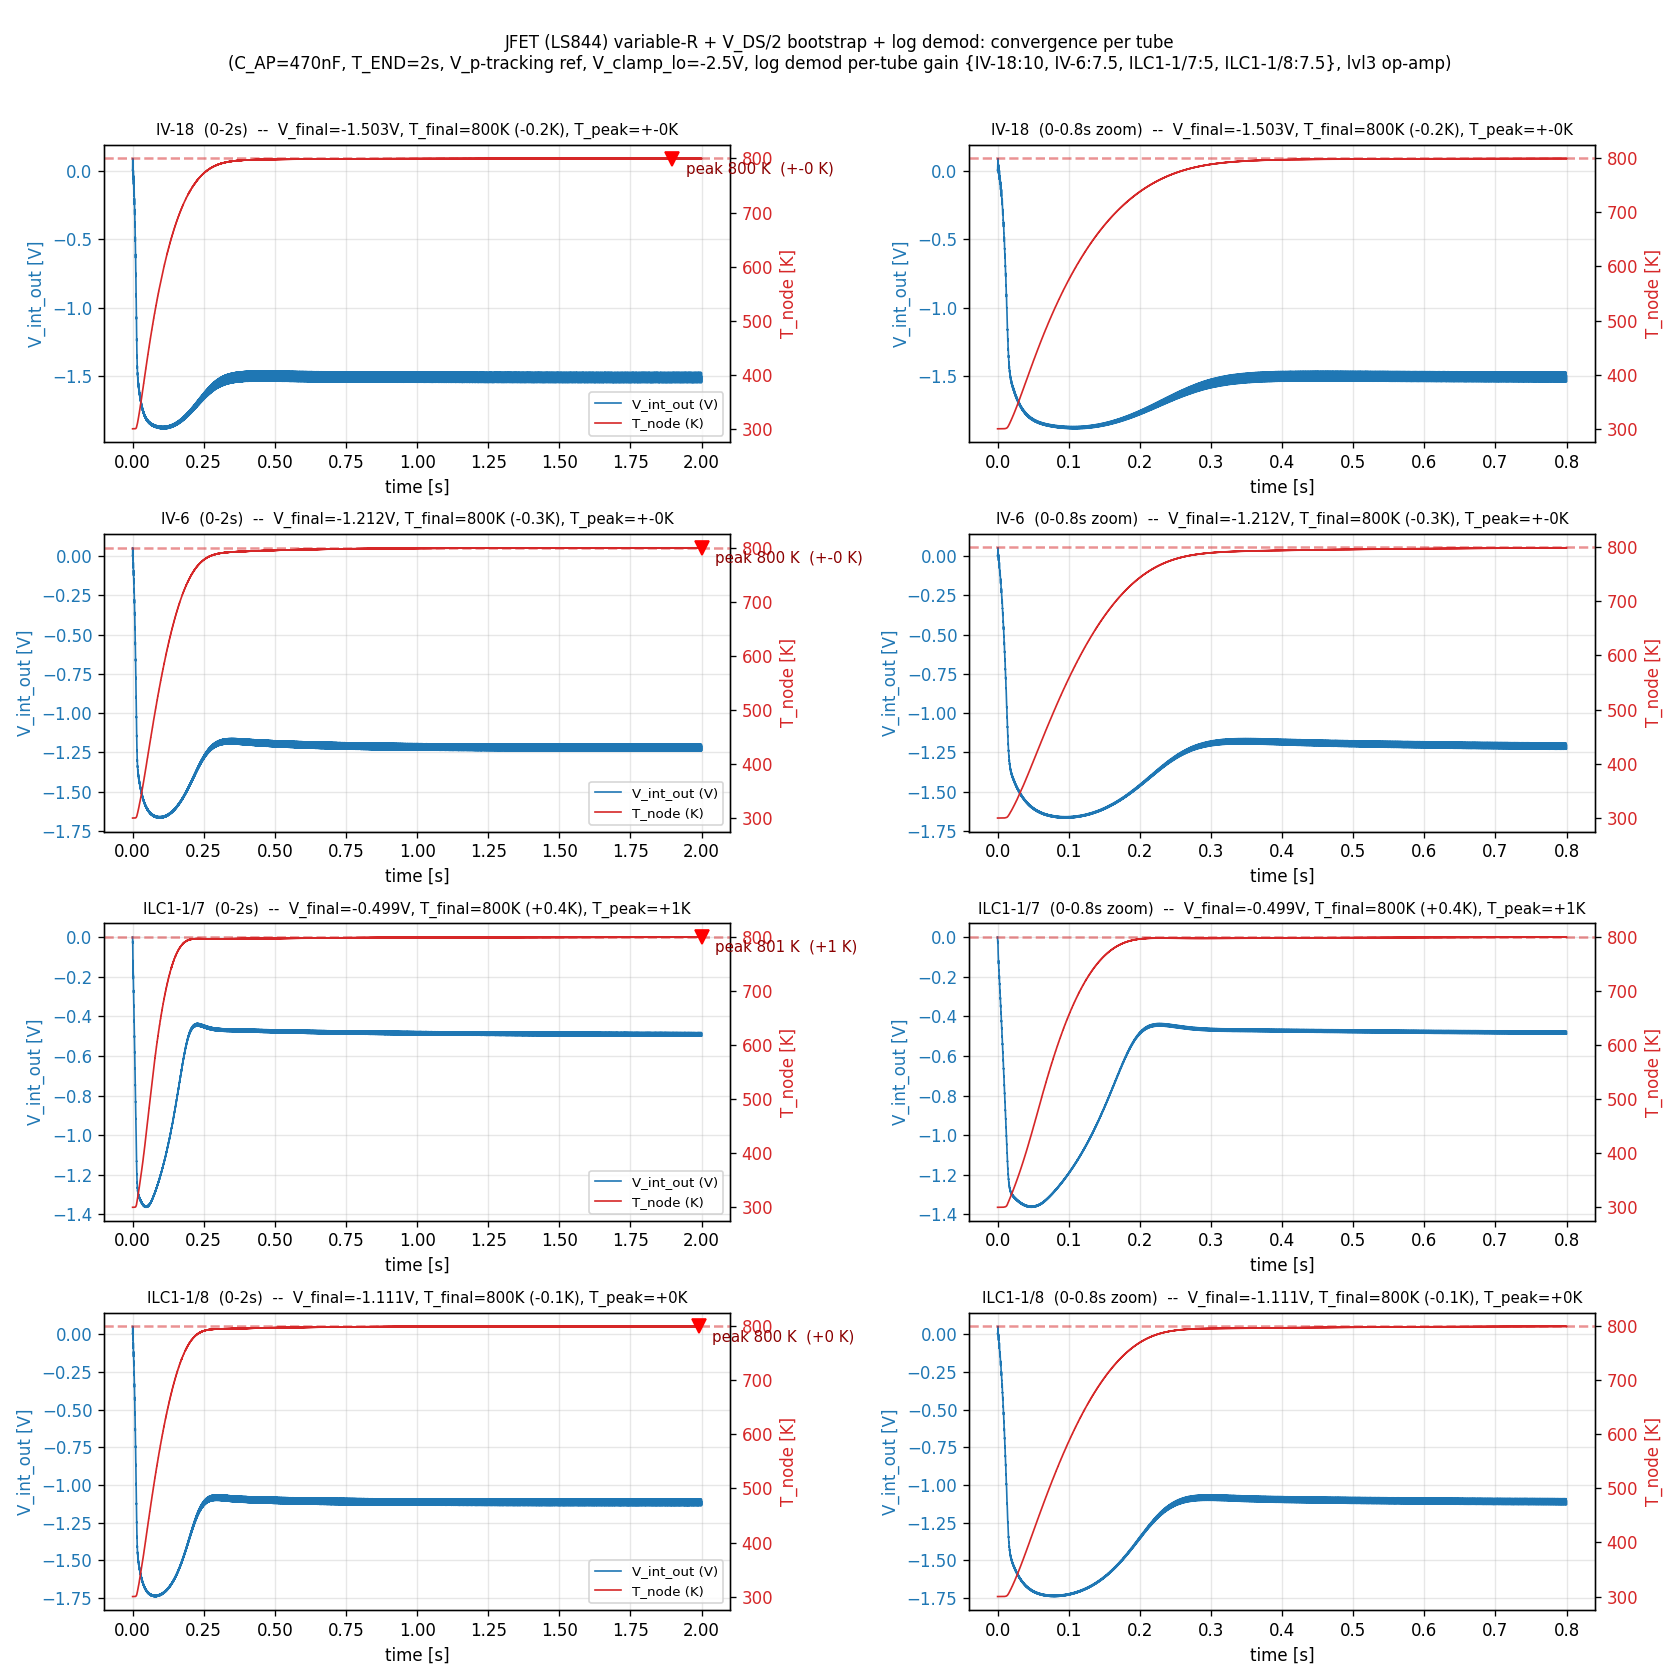
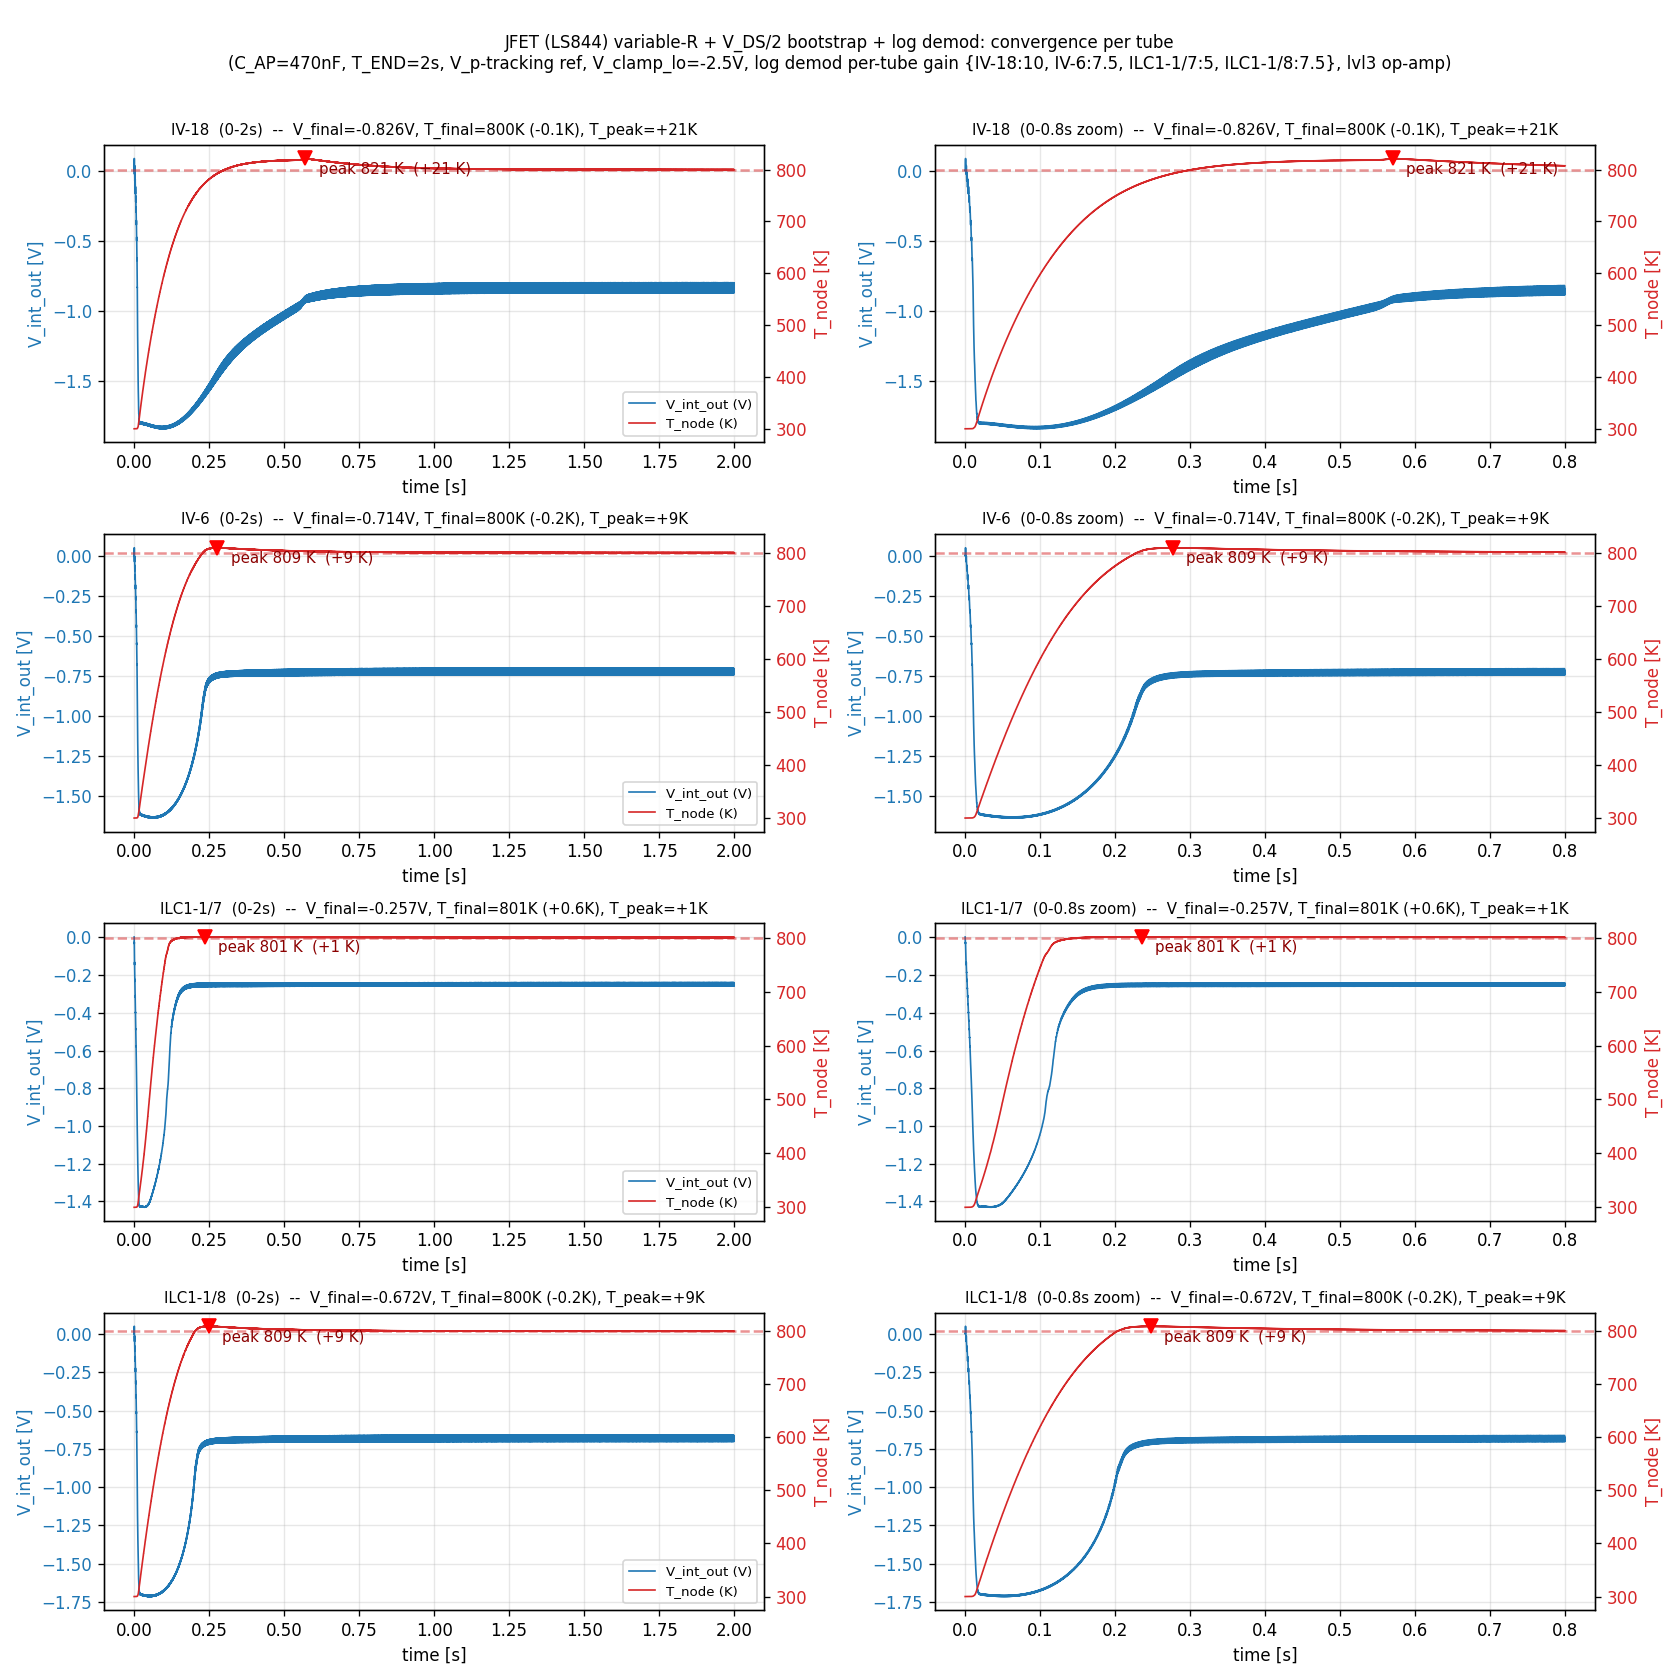
Replace LS844 variable-R with H11F1 photo-FET + V→I LED drive
Architecture surgery to eliminate the JFET-arch's V_p corner failures.
The LS844 JFET pair's V_p spec ranges 1-3.5 V (over 3:1) caused two
corner failures on the JFET branch's V_p sweep: cold-start overshoot
of +18 to +29 K at V_p=-1 V, and a full IV-18 stall at T=781 K (-19 K)
at V_p=-3.5 V. The H11F replaces V_p variation with R(I_LED) variation,
which the loop absorbs gracefully via integrator winding.

Changes:
  - Variable-R: single H11F1 photo-FET (one device, no matched-pair)
  - V→I converter: TLV9154 op-amp + 2N3904 BJT + R_sense_led=100 Ω +
    V_bias_led=1.0 V (places I_LED ≈ 10 mA at V_int_out=0)
  - Removed: J_var, J_ref, R_d_ref, R_src_ref (LS844 + V_p ref)
  - Removed: XU_sum subtractor + V_DS/2 bootstrap (will re-add as
    AC injection into V→I +IN if H2 becomes a problem)
  - Added: spice_models/H11F1.spice.txt (validated against Fig 1-3)
  - X_H11F instance takes PARAMS: H11F_BETA_SCALE for part variation

Results on all 4 tubes (per sweep_h11f_part_variation.py):
  T_end is within 0.8 K of target across ALL parts (±30 % R spread):
    IV-18:    T_end = 799.76-799.76 K (target 800)
    IV-6:     T_end = 799.76-799.78 K
    ILC1-1/7: T_end = 800.69-800.84 K
    ILC1-1/8: T_end = 799.84-799.85 K
  → No corner-case stalls, no T_end errors. Bulletproof across LS844
  V_p-equivalent spec spread.

Open issues for follow-up:
  - H2 returns to 4-18 % (no bootstrap yet — phase 1 deliberately
    skipped it). Bootstrap restoration needed for harmonic purity.
[…]

diff --git a/ngspice_examples/test_closed_loop.py b/ngspice_examples/test_closed_loop.py
@@ -437,6 +437,19 @@ def make_netlist(data_path: Path,
     # clamps.
     r_d_ref_kohm   = mc.get("r_d_ref_kohm", 10.0)
     r_src_ref_ohm  = mc.get("r_src_ref_ohm", 100.0)
+    # H11F V→I converter sizing.
+    # V_emitter = V_int_out + V_bias (via the op-amp summer).
+    # I_LED = V_emitter / R_sense_led.
+    # Default V_bias=+1.0 V, R_sense_led=100 Ω → V_int=0 gives I_LED=10 mA
+    # which puts the H11F1 near its R_typ=200 Ω OP point. Adjust V_bias if
+    # the bridge wants a different R_DS_OP.
+    v_bias_led    = mc.get("v_bias_led",    1.0)
+    r_sense_led   = mc.get("r_sense_led",   100.0)
+    i_led_bias_ma = v_bias_led / r_sense_led * 1e3  # info-only for the netlist comment
+    # H11F part-variation simulant: scales the internal NJF's BETA, which
+    # equivalently scales R(I_LED) up/down. Per datasheet Figure 5, ±30 %
+    # observed → BETA_SCALE in [0.77, 1.43].
+    h11f_beta_scale = mc.get("h11f_beta_scale", 1.0)
     # LS844 SPICE-model parameters. Default to mid-of-spec V_p, derived
     # I_DSS giving a typical β. mc overrides let us sweep across the
     # 1.0-3.5 V V_p spec range and across I_DSS variation.
@@ -973,30 +986,9 @@ R_buf2_fb2   n_buf_ap_fb 0               1k
             f"V_boost_en vboost_en 0 PWL(0 1 {max(t_boost-1e-6,0):.6e} 1 {t_boost:.6e} 0 1 0)\n"
             f"B_boost 0 T_node I = {p_boost:.6e} * (V(vboost_en) > 0.5)\n"
         )
-    # V_offset reference: self-biased JFET (LS844 second die) that tracks
-    # V_p of the matched J_var on the same die. Produces V_source_ref =
-    # I_ref·R_src_ref ≈ |V_p|/2 (positive). XU_sum subtracts this from
-    # V_int_out: V_ctl = V_int_out - V_source_ref. So V_GS_var at
-    # V_int_out=0 is -V_source_ref ≈ V_p/2 (negative, safely below
-    # the gate-channel diode threshold) and matched to V_p across builds.
-    if force_v_offset_v is not None:
-        # Diagnostic override: replace Q_ref with a fixed source on
-        # n_ref_src equal to -force_v_offset_v, preserving the
-        # V_ctl = V_int_out + force_v_offset_v back-compat convention.
-        v_offset_block = (
-            f"* Fixed V_offset (diagnostic / sweep override): V_ctl_OP = V_int_out + {float(force_v_offset_v):.4g}\n"
-            f"V_offset_ref n_ref_src 0 {-float(force_v_offset_v):.4g}"
-        )
-    else:
-        v_offset_block = (
-            f"* V_p-tracking V_offset reference: LS844 die 2 wired self-biased.\n"
-            f"* I_ref = (VCC - V_drain)/(R_d_ref); V_GS_ref = -I_ref·R_src_ref.\n"
-            f"* V_source_ref (at n_ref_src) ≈ |V_p|/2 ≈ 1 V at typical LS844.\n"
-            f"* On the same die as J_var → ΔV_GS ≤ 5 mV (LS844 grade match).\n"
-            f"R_d_ref    vcc          n_ref_drain   {r_d_ref_kohm:.4g}k\n"
-            f"J_ref      n_ref_drain  0             n_ref_src  J_LS844\n"
-            f"R_src_ref  n_ref_src    0             {r_src_ref_ohm:.4g}"
-        )
+    # H11F architecture has no V_offset reference — control variable is
+    # LED current, set by the V→I converter directly from V_int_out.
+    v_offset_block = ""
     # ------- Optional log demod stage -------
     if log_demod:
         c_lp_log = 1.0 / (2 * np.pi * f_lp_log_hz * 10e3)
@@ -1082,27 +1074,22 @@ XU_osc np nn vcc vee v_osc {opamp_osc}
 * model's drain/source swap when V_DS reverses polarity.
 R_ap1 {v_osc_jfet} n_ap_minus {R_AP:.6g}
 R_ap2 v_ap  n_ap_minus {R_AP:.6g}
-* JFET variable resistor: single LS844 die. JFETs have no body diode, so
-* the back-to-back MOSFET arrangement (needed to keep body diodes reverse-
-* biased on both half-cycles) is unnecessary. The channel handles both
-* V_DS polarities cleanly via its symmetric drain/source structure. R_DS
-* in triode is 1/(2·β·(V_GS-V_p)); at LS844 typical (β=1.25 mS/V) and
-* R_DS_target = 333 Ω, V_GS-V_p ≈ 1.2 V — moderate-overdrive triode,
-* clean linear behaviour, low harmonic content (predicted 6-12 % H2 in
-* this topology without bootstrap, down to 3 % with the bootstrap of
-* commit e5017a4 adapted to the new summer topology).
+* H11F photo-FET variable resistor: a single H11F1 optocoupler. Its
+* "gate" is replaced by LED current (I_LED) — driven by the V→I
+* converter below (XU_vi + Q_led + R_sense_led). Properties:
+*   - No body diode (it's a photo-FET, not an enhancement MOSFET)
+*   - No gate-channel forward-conduction trap (the "gate" is photonic)
+*   - No V_p part variability — the control parameter is I_LED, set
+*     by the loop; part-to-part R(I_LED) variation (±30%) is absorbed
+*     by the integrator shifting V_int_OP. No matched-pair sourcing
+*     required.
+*   - Symmetric V_DS, distortion-free at small signals (0.1% spec at
+*     25 µA RMS; ~3% at 350 mV DC bias per Figure 7).
+* See spice_models/H11F1.spice.txt for the behavioural model.
 *
-* J_var uses the J_LS844 model (defined below). The matched die in the
-* same LS844 package serves as Q_ref for the V_p-tracking V_offset
-* reference, also using the same .model statement (so V_p and β are
-* identical between J_var and Q_ref in simulation; in hardware the LS844
-* on-die match guarantees ±5 mV V_GS, 5 % I_DSS).
-*
-* Drain = v_drv_atten (or v_osc on no-booster tubes), source = n_ap_plus.
-* JFET is symmetric so either side could be drain — by convention we put
-* the higher-voltage-swing side as drain.
-J_var {v_osc_jfet} v_ctl n_ap_plus J_LS844
-.model J_LS844 NJF(Vto={jfet_vp:.4f} Beta={jfet_beta:.4e} Lambda={jfet_lambda:.4f})
+* Pin order: anode, cathode, output_A, output_B.
+.include {(HERE/'spice_models'/'H11F1.spice.txt').as_posix()}
+X_H11F vcc n_led_cathode {v_osc_jfet} n_ap_plus H11F1 PARAMS: H11F_BETA_SCALE={h11f_beta_scale:.4g}
 C_ap n_ap_plus 0 {c_ap_v:.6e}    IC=0
 XU_ap n_ap_plus n_ap_minus vcc vee v_ap {opamp_ap}
 
@@ -1307,58 +1294,38 @@ XU_aw_diff n_aw_diff_plus n_aw_diff_minus vcc vee e_sat {opamp_aw}
 * n_int_minus) is negligible: 5 uV * 1 = 5 uV demand error, < 0.1 K.
 R_bc e_sat n_int_minus {r_int:.6g}
 
-* === Variable-R gate drive: unity-gain SUBTRACTOR with V_p-tracking shift ===
-* V_ctl = V_int_out - V_source_ref, with V_source_ref produced by the
-* self-biased J_ref above. At cold start V_int_out=0, V_ctl = -V_source_ref
-* ≈ V_p/2 (negative), placing J_var at moderate-overdrive triode (R_DS
-* a few hundred Ω, |1-H| moderate, bridge drive moderate). As V_int_out
-* winds negative, V_ctl drops more negative, V_GS drops toward V_p,
-* R_DS grows, drive grows.
+* === V→I converter for the H11F LED ===
+* Drives the H11F's LED with I_LED proportional to V_int_out + V_bias.
+* The op-amp (XU_vi) and BJT (Q_led) form a precision V→I converter:
+*   V_emitter = V_int_out + V_bias  (via virtual short)
+*   I_LED = (V_emitter - V_BE) / R_sense_led ≈ V_emitter / R_sense_led
+* Sized so V_int_out=0 → I_LED ≈ {i_led_bias_ma:.1f} mA (= H11F at
+* R_DS_OP ≈ 200 Ω for ~middle of the bridge balance). V_int swings
+* about ±2 V give I_LED about 0 to 40 mA — wider than needed.
+* Loop polarity: cold filament → demod +D → inverting integrator
+* V_int = -∫D goes negative → V_emitter low → I_LED low → R_DS high
+* → all-pass past corner → MAX bridge drive → filament heats. ✓
 *
-* Why subtractor (not summer with -V_offset source): the self-biased
-* Q_ref naturally produces a POSITIVE V_source_ref (current through R_src
-* lifts the source above ground). Using V_source_ref directly via a
-* subtractor (V_ctl = V_int_out - V_source_ref) gets the correct negative
-* V_offset_effective without an extra inverter stage.
-*
-* The two LS844 dies are matched: V_GS_ref ≈ V_GS_var when both carry
-* the same I, so V_GS_var_OP = V_int_out_OP - V_source_ref_OP is the same
-* gate voltage referenced to V_p of both dies. Across the LS844 V_p spec
-* (1.0-3.5 V), V_int_OP shifts to compensate; the loop converges on
-* whatever value gives R_DS_OP ≈ 333 Ω for the bridge null.
-*
-* Standard 4-resistor diff-amp topology:
-*   V_+IN  = V_int_out · R_gnd/(R_a + R_gnd)
-*   V_-IN  = V(+IN)   (virtual short)
-*   KCL at -IN: (V_source_ref - V_-IN)/R_b = (V_-IN - V_ctl)/R_fb
-*   ⇒ V_ctl = V_+IN · (1 + R_fb/R_b) - V_source_ref · R_fb/R_b
-*           = (R_fb/R_a) · V_int_out - (R_fb/R_b) · V_source_ref     (when R_a=R_gnd, R_b=R_fb)
-*           = V_int_out - V_source_ref                                (all four R = 100k)
-{v_offset_block}
-R_sum_a    v_int_out  n_sum_plus  100k
-R_sum_gnd  n_sum_plus 0           100k
-R_sum_b    n_ref_src  n_sum_minus 100k
-R_sum_fb   v_ctl      n_sum_minus 100k
-* AC bootstrap: inject v_drv_atten and n_ap_plus into +IN through 100k
-* each via AC-coupling caps. With R_a=R_gnd=R_btd=R_bts=100k all to n_sum_plus,
-* +IN AC voltage = (V_int_out + V_drv + V_ap) / 4. Op-amp gain of 2 from +IN
-* gives V_ctl_AC = (V_int_out + V_drv + V_ap)/2 - V_source_ref_AC.
-* For slow V_int (≈ DC) and slow V_source_ref (≈ DC), the AC term at f0
-* is (V_drv + V_ap)/2 = V_avg_DS = V_S_AC + V_DS/2 → V_GS_AC = V_DS/2 →
-* the V_DS-dependent term in R_DS cancels (see Lipshitz-Vanderkooy
-* "JFETs as Voltage-Controlled Resistors" AES Journal). Brings H2 down
-* from ~7-11% to ~3% target.
-*
-* C_btd = C_bts = 100 nF: at f0=1 kHz, |Z_C| = 1.6 kΩ << R_btd=100 kΩ → cap
-* is effectively short at f0. HP cut-off = 1/(2π·100k·100n) ≈ 16 Hz, well
-* below f0 so bootstrap is full strength at the operating frequency, and
-* well above the loop bandwidth (~few Hz) so DC operation is unaffected.
-* Through-hole ceramic / MLCC 100 nF X7R, ~$0.02 each.
-C_btd      v_drv_atten n_btd_mid  100n IC=0
-R_btd      n_btd_mid   n_sum_plus 100k
-C_bts      n_ap_plus   n_bts_mid  100n IC=0
-R_bts      n_bts_mid   n_sum_plus 100k
-XU_sum     n_sum_plus n_sum_minus vcc vee v_ctl {opamp_sum}
+* The +IN summing network with R_vi_a = R_vi_b = 100 kΩ averages
+* V_int_out with the bias voltage. Feedback (R_vi_fb / R_vi_gnd both
+* 100 kΩ) gives op-amp gain ×2 from +IN, so V_emitter = V_int + V_bias.
+V_bias_led v_bias_led  0           {v_bias_led:.4g}
+R_vi_a     v_int_out   n_vi_plus   100k
+R_vi_b     v_bias_led  n_vi_plus   100k
+R_vi_fb    n_led_emit  n_vi_minus  100k
+R_vi_gnd   n_vi_minus  0           100k
+XU_vi      n_vi_plus   n_vi_minus  vcc vee n_vi_out  {opamp_sum}
+* BJT current sink: op-amp output drives BJT base via R_base, BJT
+* collector pulls I_LED through the H11F LED (anode at VCC), emitter
+* sets V_emit = V_int_out + V_bias via R_sense_led to GND.
+* R_base limits op-amp output current and adds stability.
+R_vi_base  n_vi_out    n_led_base  1k
+Q_led      n_led_cathode n_led_base n_led_emit  Q2N3904
+R_sense_led n_led_emit  0           {r_sense_led:.4g}
+* Alias v_ctl = V(n_led_emit) so existing analysis tooling (which probes
+* v_ctl) continues to work. In the H11F arch v_ctl represents the V→I
+* target voltage; I_LED = V(v_ctl) / R_sense_led.
+E_v_ctl_alias v_ctl 0 n_led_emit 0 1
 
 {booster_lines}{boost_line}
 * === 2N3904 ===

diff --git a/ngspice_examples/sweep_h11f_part_variation.py b/ngspice_examples/sweep_h11f_part_variation.py
@@ -1,0 +1,133 @@
+"""H11F part-variation sweep on all 4 tubes.
+
+Per Figure 5 of the H11F datasheet, R(I_LED) varies ±30 % across parts
+at a given operating point. We model this via the BETA_SCALE parameter
+on the internal NJF.
+
+Sweep BETA_SCALE in {0.77, 1.0, 1.43} — corresponds to part R-spread
+±30 % (high-R, typical, low-R).
+
+For comparison: the JFET arch's V_p sweep (sweep_vp_4tubes.py on the
+jfet-ls844-retrofit branch) showed cold-start overshoot up to +29 K
+at V_p=-1 V and a full IV-18 stall at V_p=-3.5 V. The H11F should
+have no equivalent failure modes — the loop just shifts V_int_OP to
+compensate for R(I_LED) variation.
+"""
+import sys, types, subprocess, time
+from pathlib import Path
+from concurrent.futures import ThreadPoolExecutor
+import numpy as np
+
+mpl = types.ModuleType("matplotlib"); mpl.use=lambda *a, **k: None
+sys.modules.setdefault("matplotlib", mpl)
+sys.modules.setdefault("matplotlib.pyplot", types.ModuleType("plt"))
+HERE = Path(__file__).resolve().parent
+sys.path.insert(0, str(HERE))
+import test_closed_loop as tcl
+from validate_cap_470nf_iv6max_level1 import swap_to_level1
+
+tcl.T_END = 4.0
+
+VARIANTS = [
+    # (label, BETA_SCALE) — ±30% per datasheet
+    ("low_R",  1.43),
+    ("typ",    1.00),
+    ("high_R", 0.77),
+]
+
+TUBES = ("iv18", "iv6", "ilc11_7", "ilc11_8")
+
+
+def run(case):
+    tube_key, label, beta_scale = case
+    spec = tcl.TUBES[tube_key]
+    mc = {k: spec[k] for k in ("r_amb","sigma_eps_A","c_th","r_top_ref","r_bot_ref","r_sense")}
+    mc["t_rail_ramp"] = 100e-6
+    if spec.get("log_gain_K") is not None:
+        mc["log_demod"]  = True
+        mc["log_gain_K"] = spec["log_gain_K"]
+        mc["v_eps_log"]  = 5e-3
+        mc["nonlin_type"]= "log"
+    for k in ("booster","ce_buf","mos_buf"):
+        if spec.get(k): mc[k] = True
+    for k in ("buf_fb1","buf_fb_ap","v_buf","c_ap"):
+        if spec.get(k) is not None: mc[k] = spec[k]
+    mc["h11f_beta_scale"] = beta_scale
+    short = f"{tube_key}_{label}"
+    cir = tcl.WORK / f"hpv_{short}.cir"
+    dat = tcl.WORK / f"hpv_{short}.data"
+    raw = tcl.make_netlist(dat, v_preset=0.0, t_ramp=0.0,
+                            r_int_scale=spec["r_int_scale"], mc=mc)
+    if spec.get("mos_buf"):
+        raw = swap_to_level1(raw)
+    cir.write_text(raw)
+    t0 = time.time()
+    res = subprocess.run(["ngspice","-b",cir.name], cwd=tcl.WORK,
+                         capture_output=True, text=True, timeout=1800)
+    wall = time.time() - t0
+    if res.returncode != 0:
+        return dict(tube=tube_key, label=label, beta_scale=beta_scale,
+                    error=res.stderr[-200:], wall=wall)
+    d = np.loadtxt(dat)
+    t = d[:,0]; T = d[:,17]; v_int = d[:,15]; v_ap_drive = d[:,3]; v_ctl = d[:,13]
+    T_op = spec["T_op"]
+    idx_in_band = np.where(np.abs(T - T_op) < 2)[0]
+    t_settle = float(t[idx_in_band[0]]) if len(idx_in_band) else float("nan")
+    late = t > t[-1] - 0.1
+    T_end = float(np.mean(T[late]))
+    T_pk = float(np.max(T))
+    v_int_op = float(np.mean(v_int[late]))
+    v_ctl_op = float(np.mean(v_ctl[late]))
+    end_mask = t > t[-1] - 0.2
+    ts2 = t[end_mask]; vs2 = v_ap_drive[end_mask]
+    dt = 50e-6
+    t_u = np.arange(ts2[0], ts2[-1], dt)
+    v_u = np.interp(t_u, ts2, vs2); v_u -= v_u.mean()
+    N = len(t_u); win = np.hanning(N)
+    V = np.fft.rfft(v_u*win) * (2/N) / 0.5
+    f = np.fft.rfftfreq(N, dt)
+    def mag(f0, bw=20):
+        idx = (f > f0-bw) & (f < f0+bw)
+        return float(np.max(np.abs(V[idx])))
+    h1, h2, h3 = mag(1000), mag(2000), mag(3000)
+    try: dat.unlink()
+    except OSError: pass
+    return dict(tube=tube_key, label=label, beta_scale=beta_scale,
+                wall=wall, t_settle_2K=t_settle, T_end=T_end, T_pk=T_pk,
+                v_int_op=v_int_op, v_ctl_op=v_ctl_op, V1_mV=h1*1e3,
+                H2_pct=h2/h1*100 if h1>0 else float("nan"),
+                H3_pct=h3/h1*100 if h1>0 else float("nan"))
+
+
+def main():
+    out_path = HERE / "sweep_h11f_part_variation_results.txt"
+    out_f = open(out_path, "w")
+    def emit(line):
+        print(line, flush=True)
+        out_f.write(line + "\n"); out_f.flush()
+    emit("H11F part-variation sweep (BETA_SCALE = R-spread simulant)")
+    emit(f"{'tube':9s} {'part':>6s} {'BETA':>5s} {'wall':>5s} {'t_set2K':>8s} "
+         f"{'T_end':>7s} {'T_pk':>7s} {'over':>5s} {'V_int':>7s} {'V_ctl':>7s} "
+         f"{'V1mV':>6s} {'H2%':>5s} {'H3%':>5s}")
+    jobs = []
+    for tube in TUBES:
+        for label, scale in VARIANTS:
+            jobs.append((tube, label, scale))
+    with ThreadPoolExecutor(max_workers=4) as ex:
+        results = list(ex.map(run, jobs))
+    for tube in TUBES:
+        for r in [x for x in results if x['tube']==tube]:
+            if "error" in r:
+                emit(f"{r['tube']:9s} FAIL: {r['error'][:80]}"); continue
+            ts = f"{r['t_settle_2K']*1e3:.0f}ms" if not np.isnan(r['t_settle_2K']) else "—"
+            T_op = tcl.TUBES[r['tube']]['T_op']
+            over = r['T_pk'] - T_op
+            emit(f"{r['tube']:9s} {r['label']:>6s} {r['beta_scale']:5.2f} {r['wall']:5.0f} "
+                 f"{ts:>8s} {r['T_end']:7.2f} {r['T_pk']:7.2f} {over:+5.1f} "
+                 f"{r['v_int_op']:+7.3f} {r['v_ctl_op']:+7.3f} {r['V1_mV']:6.0f} "
+                 f"{r['H2_pct']:5.2f} {r['H3_pct']:5.2f}")
+    out_f.close()
+
+
+if __name__ == "__main__":
+    main()